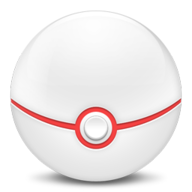
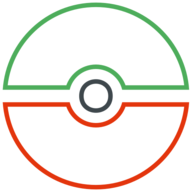
A whole new design!

Changed region(s): [[0.0, 0.0, 1.0, 1.0]]

diff --git a/src/components/Main.js b/src/components/Main.js
@@ -30,8 +30,17 @@ function ratios(durations) {
 }
 
 function upStreak(durations) {
-    for (let i=0; i < durations.length / 2; i++) {
+    for (let i=0; i < durations.length / 3; i++) {
         if (durations[i] > 1.2) {
+            return false;
+        }
+    }
+    return true;
+}
+
+function downStreak(durations) {
+    for (let i=0; i < durations.length / 4; i++) {
+        if (durations[i] < 2) {
             return false;
         }
     }
@@ -56,56 +65,38 @@ const Status = React.createClass({
 
         if (upStreak(durations)) {
             currently = "up";
+        } else if (downStreak(durations)) {
+            currently = "down";
         } else {
             let [fastRatio, slowRatio, downRatio] = ratios(durations);
-            if (fastRatio > 0.75) {
+            if (fastRatio > 0.85) {
                 currently = "up";
-            } else if (downRatio > 0.4) {
-                currently = "down";
             } else {
-                currently = "slow";
+                currently = "down";
             }
         }
 
-        let thumbClasses = ["thumb", "fa", "fa-6", currently];
-        if (currently == "up") {
-            thumbClasses.push("fa-thumbs-up");
-        } else if (currently == "slow") {
-            thumbClasses.push("fa-thumbs-up");
-        } else if (currently == "down") {
-            thumbClasses.push("fa-thumbs-down");
-        }
-
-        let lastChecked = status.lastChecked.toLocaleDateString("en-US", {
-            month: "long",
-            day: "numeric",
-            hour: "numeric",
-            minute: "2-digit"
-        });
+        let mainClass = "background-" + currently;
+        let imgSrc = "/img/" + currently + ".png";
 
         return (
-            <div>
-                <div className="row middle-xs center-xs">
+            <div className={mainClass}>
+                <div className="status-img row middle-xs center-xs">
                     <div className="col-xs-12">
-                        <i className={thumbClasses.join(" ")}></i>
+                        <img src={imgSrc} />
                     </div>
                 </div>
-                <div className="row middle-xs center-xs">
+                <div className="status-text row middle-xs center-xs">
                     <div className="col-xs-12">
-                        <span>Pokémon Go is currently</span>
+                        <span>Pokémon GO is {currently}.</span>
                     </div>
                 </div>
-                <div className="status-line row middle-xs center-xs">
+                <div className="status-date row middle-xs center-xs">
                     <div className="col-xs-12">
-                        <span>{currently}</span>
+                        <Time value={status.lastChecked} format="MMM DD, h:mm a" />
                     </div>
                 </div>
-                <div className="row middle-xs center-xs">
-                    <div className="col-xs-12">
-                        <span>as of <Time value={status.lastChecked} format="MMM DD, h:mm a" /></span>
-                    </div>
-                </div>
-                <div className="row middle-xs center-xs">
+                <div className="row middle-xs center-xs status-refresh">
                     <div className="col-xs-12">
                         <button onClick={this.onClickRefresh}><i className="fa fa-refresh"></i></button>
                     </div>

diff --git a/static/css/main.css b/static/css/main.css
@@ -1,9 +1,8 @@
 body {
     margin: 0;
-    font-family: "Open Sans", sans-serif;
+    font-family: "Varela Round", sans-serif;
     background-color: #EDEDF4;
-    color: black;
-    font-size: 18pt;
+    color: white;
 }
 
 hr {
@@ -18,14 +17,47 @@ a {
 button {
     padding: 16px;
     margin: 8px;
-    font-size: 24pt;
+    font-size: 48pt;
     background: none;
     border-radius: 5px;
     border: none;
+    color: white;
 }
 
 .row {
-    margin: 0 !important;
+    margin-left: 0 !important;
+    margin-right: 0 !important;
+}
+
+.background-up {
+    background-color: #4DAD5B;
+    height: 100vh;
+}
+
+.background-down {
+    background-color: #E3350D;
+    height: 100vh;
+}
+
+.status-img img {
+    margin-top: 100px;
+    width: 60%;
+    max-width: 256px;
+}
+
+.status-text {
+    margin-top: 30px;
+    font-size: 1.625em;
+    line-height: 2em;
+}
+
+.status-date {
+    font-size: 0.875em;
+    line-height: 1.125em;
+}
+
+.status-refresh {
+    margin-top: 30px;
 }
 
 .thumb {

diff --git a/template/index.html b/template/index.html
@@ -27,7 +27,7 @@
   <meta name="msapplication-TileImage" content="/ms-icon-144x144.png">
   <meta name="theme-color" content="#EDEDF4">
 
-  <link href='https://fonts.googleapis.com/css?family=Open+Sans:400,300,400italic,600' rel='stylesheet' type='text/css'>
+  <link href="https://fonts.googleapis.com/css?family=Varela+Round" rel="stylesheet" type="text/css">
   <link rel="stylesheet" href="/css/main.css" type="text/css">
   <link rel="stylesheet" href="/css/flexboxgrid.min.css" type="text/css">
   <link rel="stylesheet" href="//maxcdn.bootstrapcdn.com/font-awesome/4.5.0/css/font-awesome.min.css" type="text/css">
